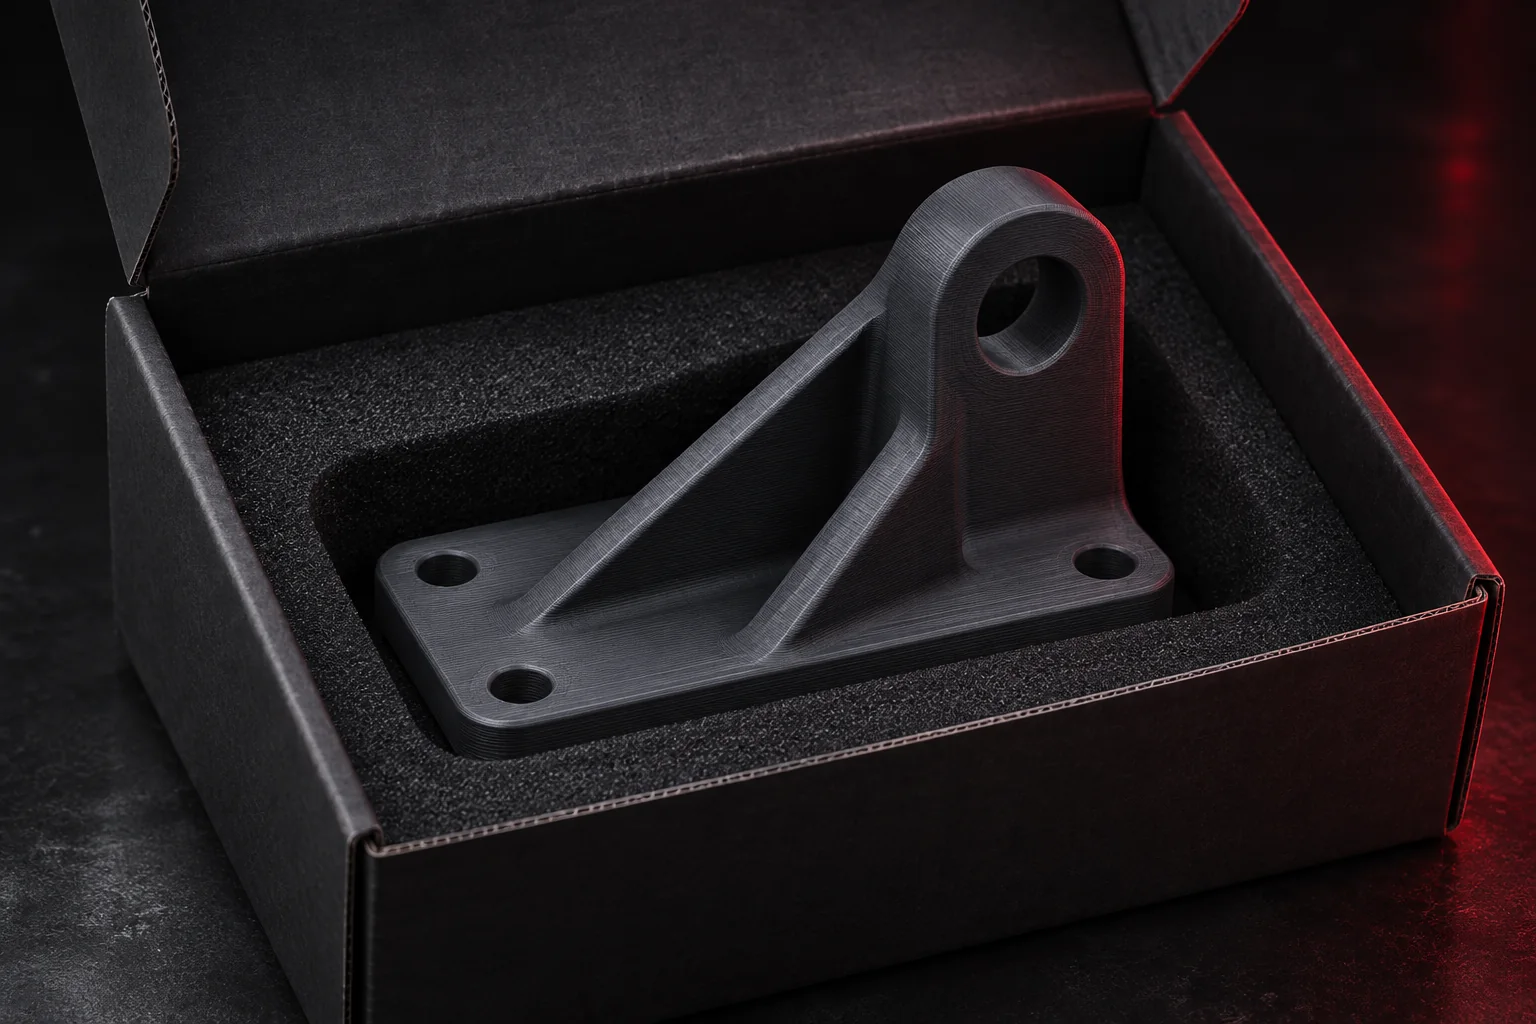
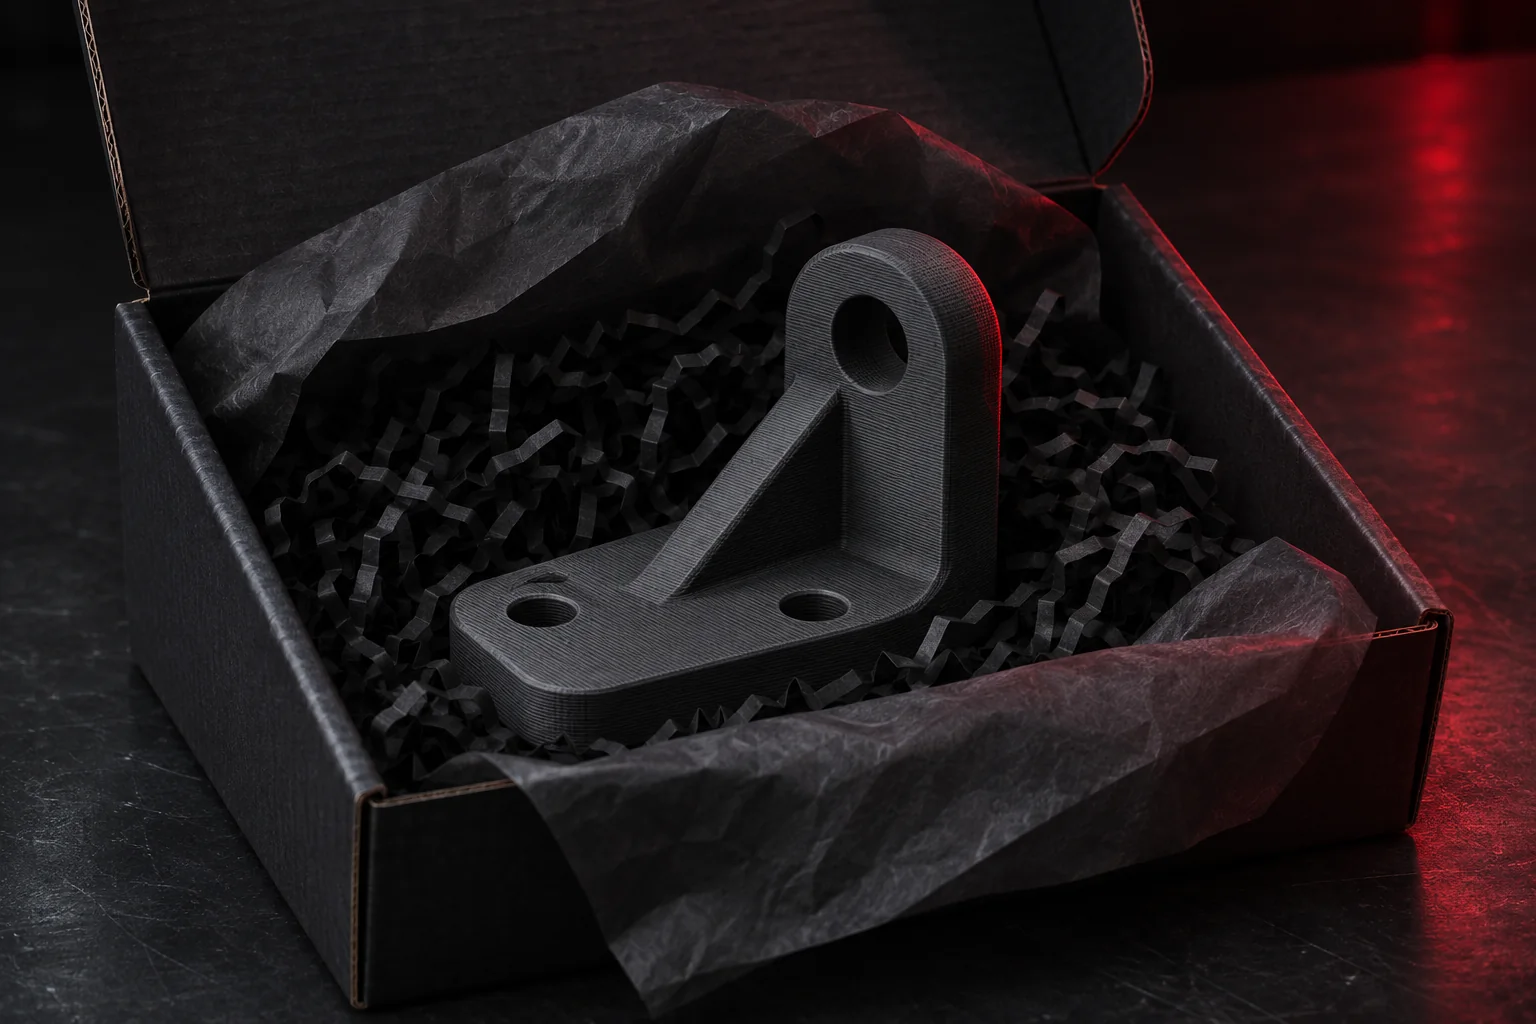
Match delivery image to paper packaging

diff --git a/index.html b/index.html
@@ -134,7 +134,7 @@
           <span class="step-num mono" data-en="03 / SHIP" data-ro="03 / LIVRARE">03 / SHIP</span>
           <h3 data-en="Deliver" data-ro="Livrare">Deliver</h3>
           <p data-en="Checked before dispatch; extra hand finishing when needed." data-ro="Verificat inainte de expediere; finisare manuala suplimentara cand este cazul.">Checked before dispatch; extra hand finishing when needed.</p>
-          <figure class="home-process-visual" aria-hidden="true"><img src="/studio/assets/images/home-process-deliver.webp" alt="" loading="lazy" decoding="async"></figure>
+          <figure class="home-process-visual" aria-hidden="true"><img src="/studio/assets/images/home-process-deliver.webp?v=20261108-paper-packaging" alt="" loading="lazy" decoding="async"></figure>
         </article>
       </div>
     </div>
